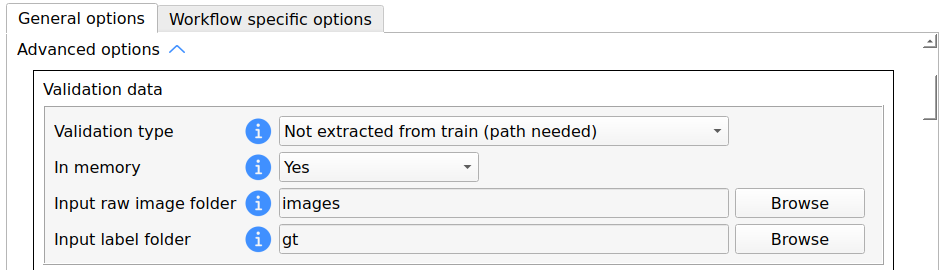
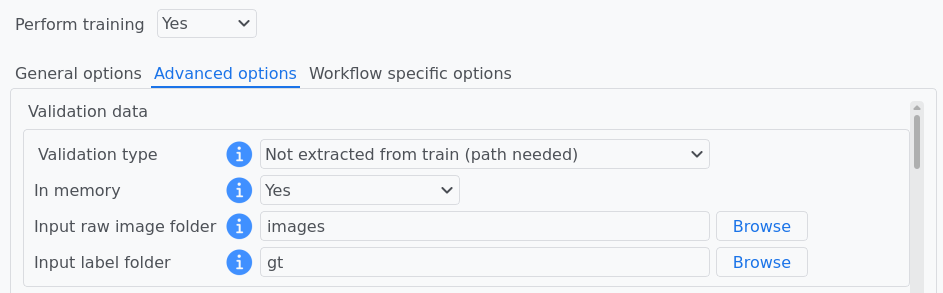
Update instance segmentation documentation with new changes in GUI.

diff --git a/source/workflows/instance_segmentation.rst b/source/workflows/instance_segmentation.rst
@@ -50,9 +50,9 @@ The instance segmentation workflows in BiaPy expect a series of **folders** as i
     .. tabs::
       .. tab:: GUI
 
-        Under *Workflow*, select *Instance Segmentation*, twice *Continue*, under *General options* > *Train data*, click on the *Browse* button of **Input raw image folder**:
+        Under *Workflow*, select *Instance Segmentation*, twice *Continue*, under *General options* > *Train data*, click on the *Browse* button of **Input raw image folder** and select the folder with your training raw images:
 
-        .. image:: ../img/GUI-general-options.png
+        .. image:: ../img/instance-seg/GUI-train-general-options.png
           :align: center
 
       .. tab:: Google Colab / Notebooks
@@ -76,9 +76,9 @@ The instance segmentation workflows in BiaPy expect a series of **folders** as i
     .. tabs::
       .. tab:: GUI
 
-        Under *Workflow*, select *Instance Segmentation*, twice *Continue*, under *General options* > *Train data*, click on the *Browse* button of **Input label folder**:
+        Under *Workflow*, select *Instance Segmentation*, twice *Continue*, under *General options* > *Train data*, click on the *Browse* button of **Input label folder** and select the folder with your training label images:
 
-        .. image:: ../img/GUI-general-options.png
+        .. image:: ../img/instance-seg/GUI-train-general-options.png
           :align: center
 
       .. tab:: Google Colab / Notebooks
@@ -104,9 +104,9 @@ The instance segmentation workflows in BiaPy expect a series of **folders** as i
     .. tabs::
       .. tab:: GUI
 
-        Under *Workflow*, select *Instance Segmentation*, three times *Continue*, under *General options* > *Test data*, click on the *Browse* button of **Input raw image folder**:
+        Under *Workflow*, select *Instance Segmentation*, three times *Continue*, under *General options* > *Test data*, click on the *Browse* button of **Input raw image folder** and select the folder with your test raw images:
 
-        .. image:: ../img/GUI-test-data.png
+        .. image:: ../img/instance-seg/GUI-test-data.png
           :align: center
 
       .. tab:: Google Colab / Notebooks
@@ -130,9 +130,9 @@ The instance segmentation workflows in BiaPy expect a series of **folders** as i
     .. tabs::
       .. tab:: GUI
 
-        Under *Workflow*, select *Instance Segmentation*, three times *Continue*, under *General options* > *Test data*, select "Yes" in the *Do you have test labels?* field, and then click on the *Browse* button of **Input label folder**:
+        Under *Workflow*, select *Instance Segmentation*, three times *Continue*, under *General options* > *Test data*, select "Yes" in the *Do you have test labels?* field, and then click on the *Browse* button of **Input label folder** and select the folder with your test label images:
 
-        .. image:: ../img/GUI-test-data-gt.png
+        .. image:: ../img/instance-seg/GUI-test-data-gt.png
           :align: center
 
       .. tab:: Google Colab / Notebooks
@@ -307,7 +307,7 @@ To define such set, there are two options:
       .. tabs::
         .. tab:: GUI
 
-          Under *Workflow*, select *Instance Segmentation*, click twice on *Continue*, and under *General options* > *Advanced options* > *Validation data*, select "Extract from train (split training)" in **Validation type**, and introduce your value (between 0 and 1) in the **Train proportion for validation**:
+          Under *Workflow*, select *Instance Segmentation*, click twice on *Continue*, and under *Advanced options* > *Validation data*, select "Extract from train (split training)" in **Validation type**, and introduce your value (between 0 and 1) in the **Train proportion for validation**:
 
           .. image:: ../img/GUI-validation-percentage.png
             :align: center
@@ -411,9 +411,9 @@ At the core of each BiaPy workflow there is a deep learning model. Although we t
         .. tabs::
           .. tab:: GUI
 
-            Under *Workflow*, select *Instance Segmentation*, click twice on *Continue*, and under *General options* > *Train data*, edit the last value of the field **Data patch size** with the number of channels. This variable follows a ``(y, x, channels)`` notation in 2D and a ``(z, y, x, channels)`` notation in 3D:
+            Under *Workflow*, select *Instance Segmentation*, click twice on *Continue*, and under *General options*, edit the last value of the field **Patch size** with the number of channels. This variable follows a ``(y, x, channels)`` notation in 2D and a ``(z, y, x, channels)`` notation in 3D:
 
-            .. image:: ../img/GUI-general-options.png
+            .. image:: ../img/instance-seg/GUI-general-options.png
               :align: center
 
           .. tab:: Google Colab / Notebooks
@@ -435,11 +435,10 @@ At the core of each BiaPy workflow there is a deep learning model. Although we t
         .. tabs::
           .. tab:: GUI
 
-            Under *Workflow*, select *Instance Segmentation*, click twice on *Continue*, and under *General options*, click on *Advanced options*, scroll down to *General training parameters*, and edit the field **Number of epochs**:
+            Under *Workflow*, select *Instance Segmentation*, click twice on *Continue*, and under *Advanced options*, scroll down to *General training parameters*, and edit the field **Number of epochs**:
 
             .. image:: ../img/instance-seg/GUI-basic-training-params.png
               :align: center
-              :width: 75%
 
           .. tab:: Google Colab / Notebooks
             
@@ -460,11 +459,10 @@ At the core of each BiaPy workflow there is a deep learning model. Although we t
         .. tabs::
           .. tab:: GUI
 
-            Under *Workflow*, select *Instance Segmentation*, click twice on *Continue*, and under *General options*, click on *Advanced options*, scroll down to *General training parameters*, and edit the field **Patience**:
+            Under *Workflow*, select *Instance Segmentation*, click twice on *Continue*, and under *Advanced options*, scroll down to *General training parameters*, and edit the field **Patience**:
 
             .. image:: ../img/instance-seg/GUI-basic-training-params.png
               :align: center
-              :width: 75%
 
           .. tab:: Google Colab / Notebooks
             
